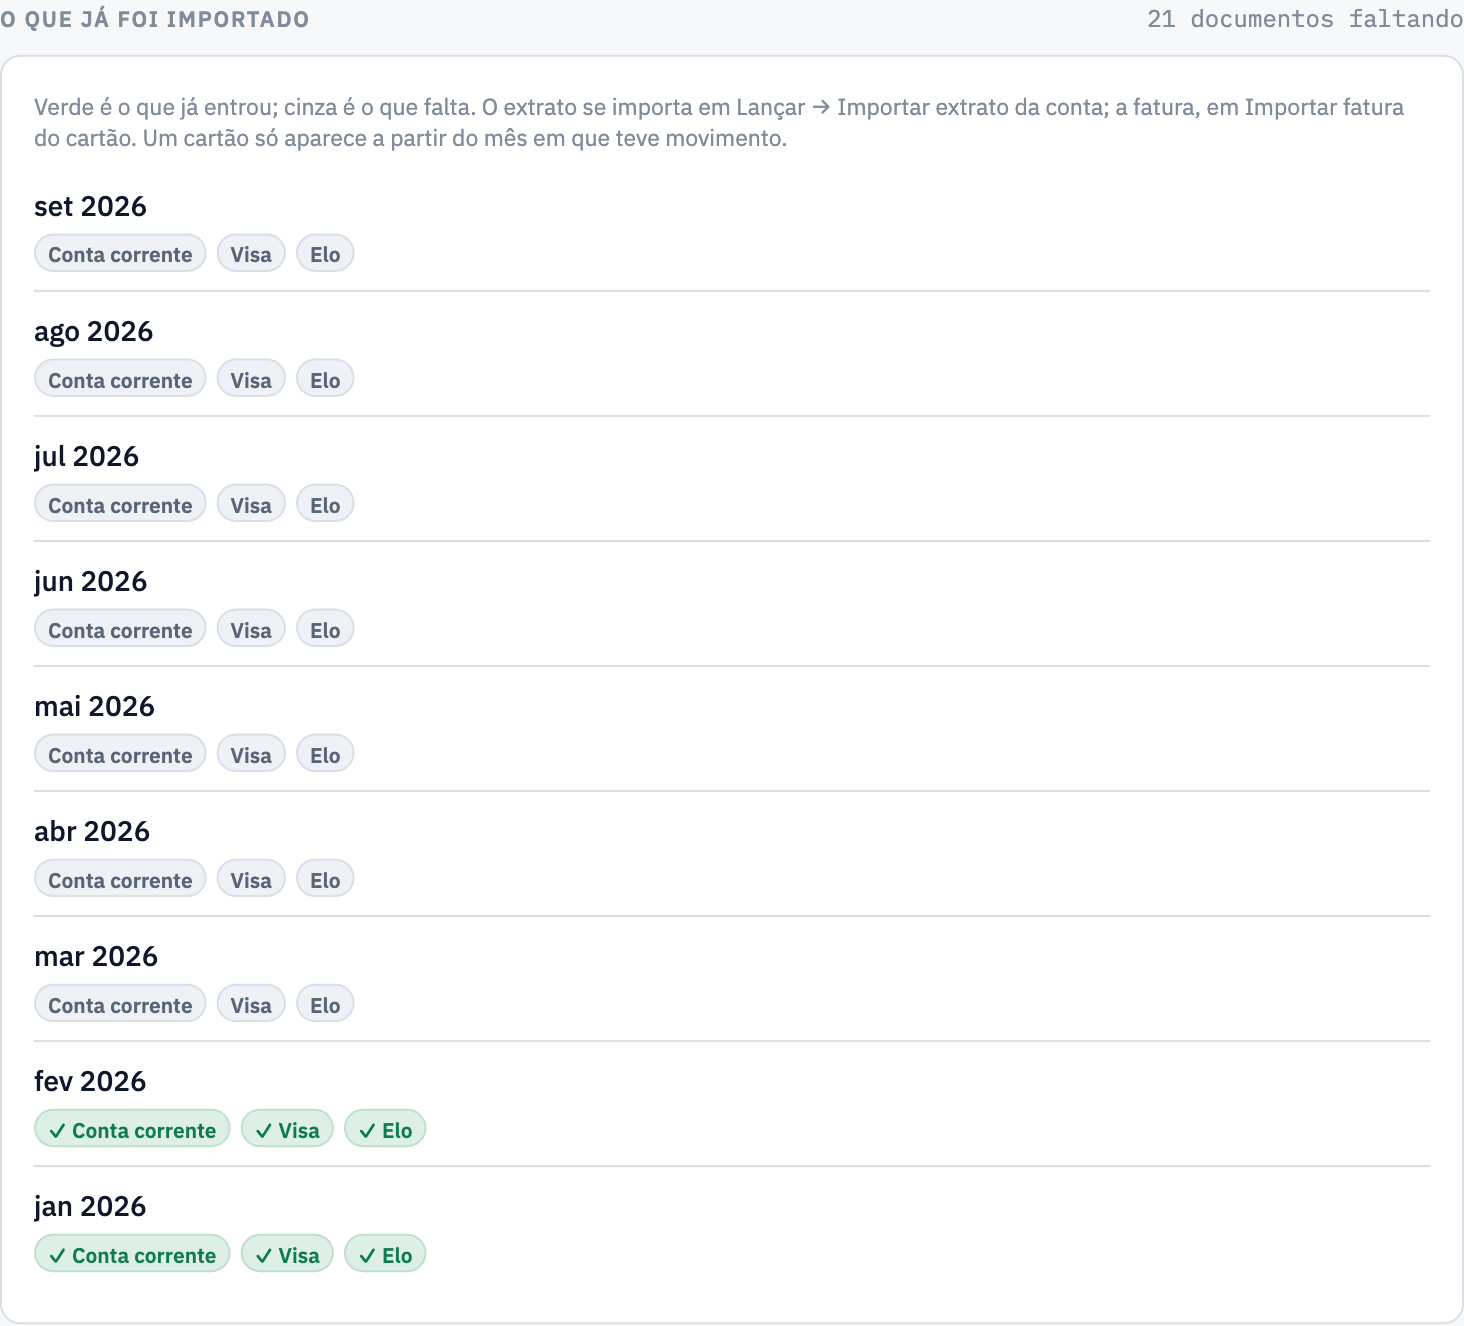
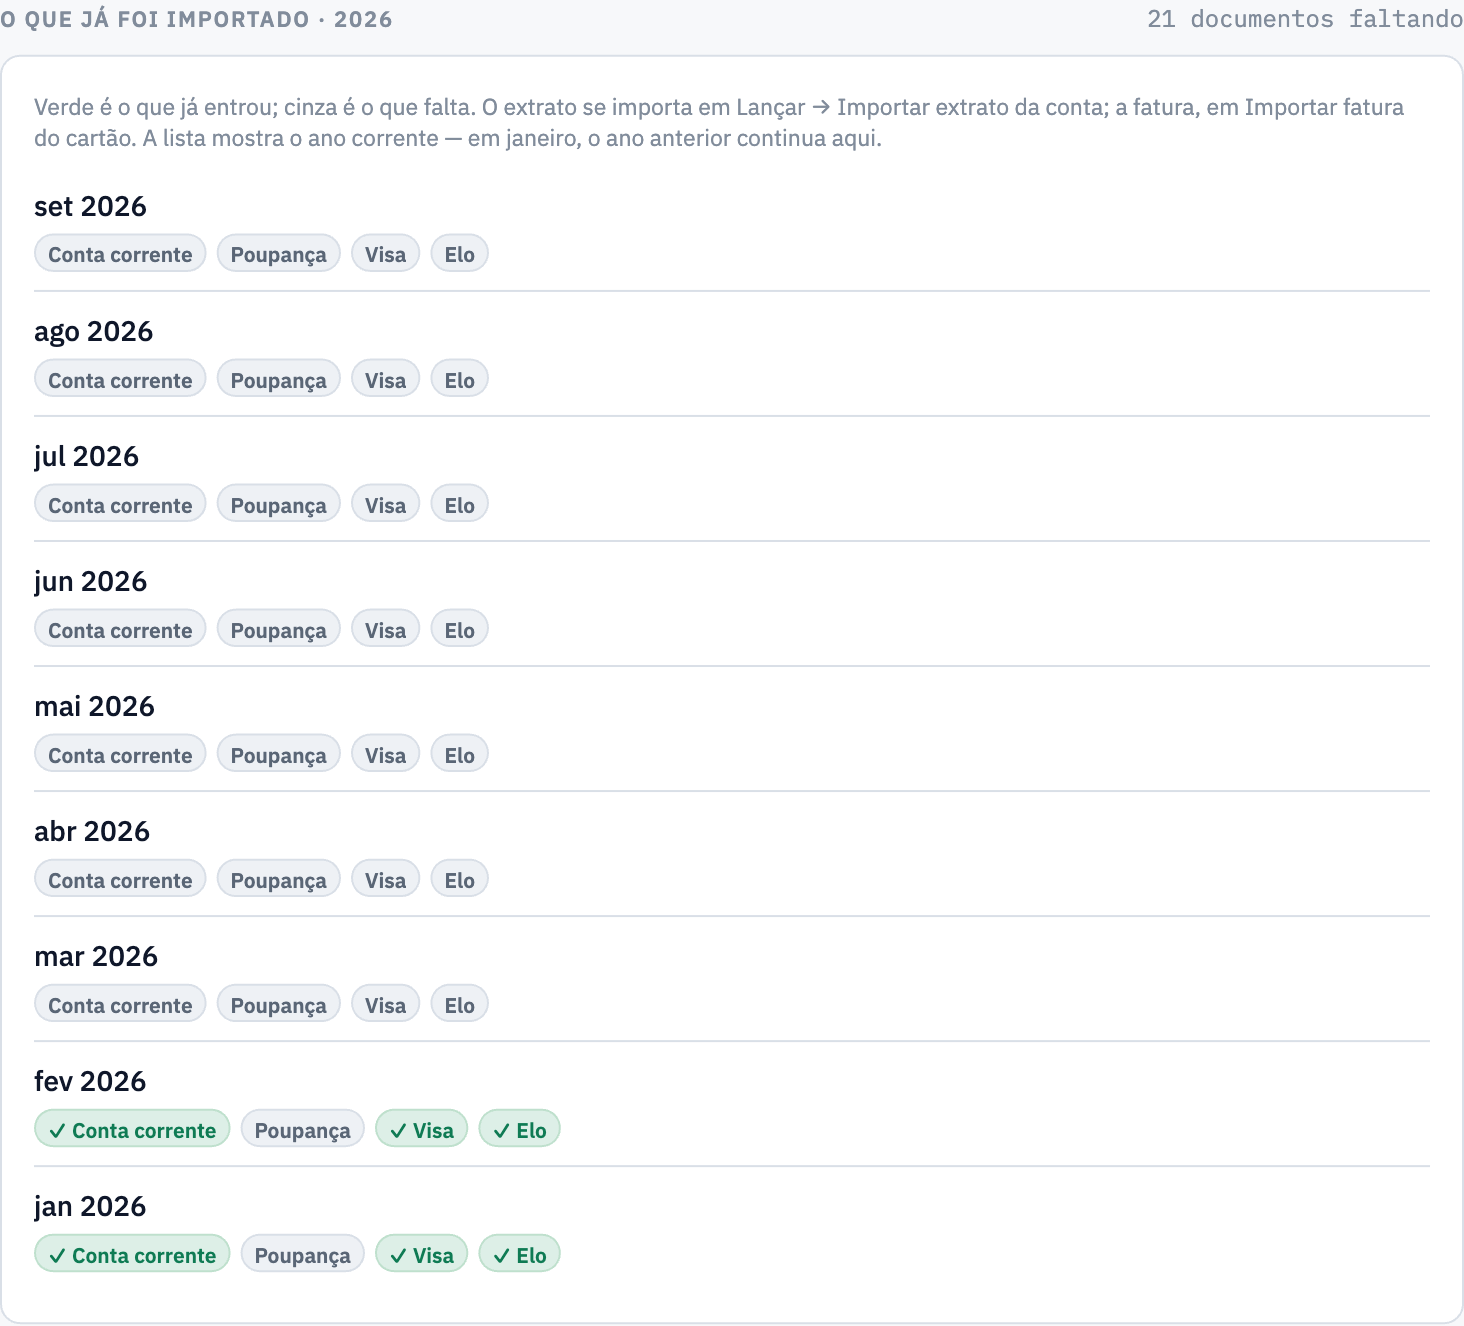
Quadro de importações por ano, com a regra de janeiro
A lista passa a ser do ano corrente. Em janeiro, o ano anterior continua
à vista para não perder o que faltou; de fevereiro em diante fica só o
ano novo, e o que sobrou de anos anteriores vira uma linha de resumo.
Extrato de poupança entra no quadro, mas só conta como pendente depois
que você importa o primeiro.

Ajuda e manual atualizados junto, com tela nova.

diff --git a/index.html b/index.html
@@ -2237,8 +2237,14 @@ function openTransfer(){
       method:"transferencia",cardId:"transf",acct:a,acct2:b,n:1,date:$("#xD").value||todayISO(),time:nowTime(),k:"t"});
     closeSheet(); render(); toast("Transferido"); }; }
 
-/* o que já foi importado, mês a mês: extrato de cada conta e fatura de cada cartão */
-function mesesComMovimento(){
+/* o que já foi importado, mês a mês. A lista é do ano corrente (pedido do dono, 26/09/2026); em janeiro, o ano
+   anterior continua à vista, para não perder de vista o que ficou faltando; de fevereiro em diante, só o ano novo. */
+function mesesDoQuadro(){
+  const cur=ymOf(todayISO()), ano=+cur.slice(0,4), mes=+cur.slice(5,7), out=[];
+  for(let m=mes;m>=1;m--) out.push(ano+"-"+pad(m));
+  if(mes===1) for(let m=12;m>=1;m--) out.push((ano-1)+"-"+pad(m));
+  return out; }
+function mesesComDados(){
   const A=S.cfg.accounts||[], cur=ymOf(todayISO());
   let ini=cur;
   A.forEach(a=>{ if(a.openDate&&ymOf(a.openDate)<ini) ini=ymOf(a.openDate); });
@@ -2246,7 +2252,7 @@ function mesesComMovimento(){
   Object.keys(S.cfg.faturasLidas||{}).concat(Object.keys(S.cfg.extratosLidos||{}))
     .forEach(k=>{ const m=k.split("|")[1]; if(m&&m<ini) ini=m; });
   const out=[]; let ym=cur;
-  while(ym>=ini&&out.length<36){ out.push(ym); ym=ymShift(ym,-1); }
+  while(ym>=ini&&out.length<60){ out.push(ym); ym=ymShift(ym,-1); }
   return out; }
 function htmlImportacoes(){
   const ex=S.cfg.extratosLidos||{}, fa=S.cfg.faturasLidas||{}, cur=ymOf(todayISO());
@@ -2258,36 +2264,45 @@ function htmlImportacoes(){
   if(!contas.length) contas=A.filter(a=>a.type!=="carteira"&&a.type!=="invest");
   const cartoes=creditCards();
   if(!contas.length&&!cartoes.length) return "";
-  const meses=mesesComMovimento();
-  /* de quando cobrar cada documento: da abertura da conta, ou do primeiro mês em que o cartão teve movimento */
+  const todos=mesesComDados(), meses=mesesDoQuadro();
+  /* de quando cobrar cada documento: da abertura da conta (ou do primeiro mês com movimento) e, no cartão,
+     do primeiro mês em que ele teve fatura */
   const desdeConta={}, desdeCartao={};
   contas.forEach(a=>{ let d=a.openDate?ymOf(a.openDate):"";
     Object.keys(ex).forEach(k=>{ const [id,m]=k.split("|"); if(id===a.id&&(!d||m<d)) d=m; });
-    /* mês em que a conta já tem movimento vale mesmo antes da data de início */
-    meses.forEach(m=>{ if((!d||m<d)&&movsConta(a.id,m).length) d=m; });
-    desdeConta[a.id]=d||meses[meses.length-1]; });
+    todos.forEach(m=>{ if((!d||m<d)&&movsConta(a.id,m).length) d=m; });
+    desdeConta[a.id]=d||todos[todos.length-1]||cur; });
   cartoes.forEach(c=>{ let d="";
     Object.keys(fa).forEach(k=>{ const [id,m]=k.split("|"); if(id===c.id&&(!d||m<d)) d=m; });
-    meses.forEach(m=>{ if(cardInvoice(c.id,m).total&&(!d||m<d)) d=m; });
+    todos.forEach(m=>{ if(cardInvoice(c.id,m).total&&(!d||m<d)) d=m; });
     desdeCartao[c.id]=d; });
-  let faltam=0;
-  const chip=(lido,nome,quando,cobra)=>{ if(!lido&&cobra) faltam++;
-    return '<span class="chip '+(lido?"ok":"")+'" title="'+(lido?"importado em "+diaMesAno(quando):"ainda não importado")+'">'+
-      (lido?"✓ ":"")+esc(nome)+'</span>'; };
-  const linhas=meses.map(ym=>{
-    const chips=[];
+  const docsDoMes=ym=>{ const out=[];
     contas.forEach(a=>{ if(desdeConta[a.id]&&ym<desdeConta[a.id]) return;
-      chips.push(chip(!!ex[a.id+"|"+ym],a.n,ex[a.id+"|"+ym],ym<=cur)); });
+      /* só cobra extrato de conta corrente ou de conta que você já importou alguma vez: poupança fica no quadro,
+         mas não entra na conta do que falta enquanto você não importar a primeira */
+      const cobra=ym<=cur&&(a.type==="corrente"||temImport(ex,a.id));
+      out.push({lido:!!ex[a.id+"|"+ym], nome:a.n, quando:ex[a.id+"|"+ym], cobra}); });
     cartoes.forEach(c=>{ const d=desdeCartao[c.id]; if(!d||ym<d) return;
-      chips.push(chip(!!fa[c.id+"|"+ym],c.n,fa[c.id+"|"+ym],ym<=cur)); });
-    if(!chips.length) return "";
+      out.push({lido:!!fa[c.id+"|"+ym], nome:c.n, quando:fa[c.id+"|"+ym], cobra:ym<=cur}); });
+    return out; };
+  let faltam=0;
+  const linhas=meses.map(ym=>{ const L=docsDoMes(ym); if(!L.length) return "";
+    const chips=L.map(x=>{ if(!x.lido&&x.cobra) faltam++;
+      return '<span class="chip '+(x.lido?"ok":"")+'" title="'+(x.lido?"importado em "+diaMesAno(x.quando):"ainda não importado")+'">'+
+        (x.lido?"✓ ":"")+esc(x.nome)+'</span>'; }).join("");
     return '<div class="linkrow wrap"><div class="m"><div class="t">'+esc(ymLabel(ym))+'</div>'+
-      '<div class="s" style="display:flex;gap:5px;flex-wrap:wrap;margin-top:4px">'+chips.join("")+'</div></div></div>'; }).join("");
-  return '<div class="sec"><div class="sec-h"><h2 class="sec-t">O que já foi importado</h2>'+
+      '<div class="s" style="display:flex;gap:5px;flex-wrap:wrap;margin-top:4px">'+chips+'</div></div></div>'; }).join("");
+  /* o que ficou faltando em anos que saíram da lista */
+  let antes=0;
+  todos.filter(m=>meses.indexOf(m)<0).forEach(m=>docsDoMes(m).forEach(x=>{ if(!x.lido&&x.cobra) antes++; }));
+  const ano=cur.slice(0,4), janeiro=+cur.slice(5,7)===1;
+  return '<div class="sec"><div class="sec-h"><h2 class="sec-t">O que já foi importado · '+ano+(janeiro?" e "+(+ano-1):"")+'</h2>'+
     '<span class="day-t">'+(faltam?faltam+(faltam>1?" documentos faltando":" documento faltando"):"tudo em dia")+'</span></div>'+
     '<div class="card pad">'+
-    '<div class="say-hint" style="margin-bottom:8px">Verde é o que já entrou; cinza é o que falta. O extrato se importa em Lançar → Importar extrato da conta; a fatura, em Importar fatura do cartão. Um cartão só aparece a partir do mês em que teve movimento.</div>'+
-    linhas+'</div></div>'; }
+    '<div class="say-hint" style="margin-bottom:8px">Verde é o que já entrou; cinza é o que falta. O extrato se importa em Lançar → Importar extrato da conta; a fatura, em Importar fatura do cartão. A lista mostra o ano corrente — em janeiro, o ano anterior continua aqui.</div>'+
+    linhas+
+    (antes?'<div class="say-hint" style="margin-top:10px">Ainda faltam '+antes+(antes>1?" documentos de anos anteriores":" documento de anos anteriores")+'. Eles saíram da lista, mas continuam podendo ser importados: basta escolher o arquivo em Lançar.</div>':"")+
+    '</div></div>'; }
 
 /* =================== ajuda =================== */
 /* o app não tem IA embutida (não há servidor nem chave): a ajuda é busca no próprio conteúdo, e para
@@ -2325,7 +2340,7 @@ const AJUDA=[
  {g:"Importar",t:"Importo extrato e fatura: o gasto conta duas vezes?",
   c:"Não. As compras vêm da fatura e não tiram dinheiro da conta; o pagamento da fatura vem do extrato, sai da conta e não conta como gasto. Pode importar todos os extratos primeiro e as faturas depois.",a:"carregar"},
  {g:"Importar",t:"Como sei quais extratos e faturas já importei?",
-  c:"Em Ajustes, no quadro O que já foi importado: cada mês mostra o extrato de cada conta e a fatura de cada cartão — verde é o que já entrou, cinza é o que falta. No alto aparece quantos documentos ainda faltam.",a:"carregar"},
+  c:"Em Ajustes, no quadro O que já foi importado: cada mês mostra o extrato de cada conta e a fatura de cada cartão — verde é o que já entrou, cinza é o que falta. No alto aparece quantos documentos ainda faltam. A lista é do ano corrente; em janeiro, o ano anterior continua à vista, e de fevereiro em diante fica só o ano novo — o que ficou faltando de anos anteriores aparece resumido no rodapé e pode ser importado a qualquer momento.",a:"carregar"},
  {g:"Importar",t:"O PDF do meu banco não foi lido",
   c:"O app mostra uma amostra sem os seus dados (números viram 9, nomes viram x). Copie e mande na conversa com o Claude para ele ajustar o leitor. Nunca mande o documento original.",a:"problemas"},
  {g:"Importar",t:"Escolhi o leitor errado (extrato no lugar da fatura)",

diff --git a/manual.html b/manual.html
@@ -495,6 +495,8 @@ td.valor{font-family:var(--f-m);text-align:right;white-space:nowrap}
   <figcaption>Verde é o que já entrou; cinza é o que falta. No alto, quantos documentos ainda faltam. Entram as contas de banco — corrente e poupança; a carteira e a conta da aplicação automática ficam de fora, porque não têm extrato próprio. Um cartão só aparece a partir do mês em que teve movimento.</figcaption>
 </figure>
 
+<p>A lista é do <b>ano corrente</b>. Em janeiro, o ano anterior continua à vista, para você não perder de vista o que ficou faltando; de fevereiro em diante, fica só o ano novo, e o que sobrou de anos anteriores aparece resumido no rodapé do quadro — e pode ser importado quando quiser.</p>
+
 <div class="nota">
   <b>Não desconta duas vezes</b>
   As compras que vêm da fatura não tiram dinheiro da conta, e o pagamento que vem do extrato não conta como gasto. É por isso que a ordem não estraga nada.

diff --git a/sw.js b/sw.js
@@ -1,6 +1,6 @@
 /* Caderneta — service worker: guarda o app no aparelho para abrir sem internet.
    Mude VERSAO a cada publicação para os aparelhos pegarem a versão nova. */
-const VERSAO = "caderneta-v41";
+const VERSAO = "caderneta-v42";
 const FONTES = "caderneta-fontes";
 const LIBS = "caderneta-libs-2";
 const APP = ["./", "./index.html", "./manifest.webmanifest", "./config.js",

diff --git a/CLAUDE.md b/CLAUDE.md
@@ -37,7 +37,7 @@ Leia este arquivo inteiro antes de mudar qualquer coisa. Ao mudar arquitetura, f
    - Dívidas: `TIPOS_DIVIDA`, `saldoPrice`, `quitar`, `normDivida`, `vencDivida`, `estadoDivida`, `consignadoNoMes`, `simulacao`, `openDivida`. Gastos que se repetem: `recorrentes`, `tornarFixo`.
    - Extrato por conta e fatura do cartão, na aba Contas: `movsConta`, `linhaExt`, `htmlExtrato`, `bindExtrato` (a seleção fica em `S.ext`; `card:<id>` é cartão). Fatura: `faturaDe`, `comprasDaFatura`, `cardInvoice`.
    - Importar, acertar e repetidos: `saldoDoDoc` + `openAcerto` (acerto pelo saldo impresso no extrato), `dupHTML` (a pergunta na conferência) e `repetidosDe`/`procurarRepetidos`/`openRepetido` (repetidos já lançados).
-   - **O que já foi importado** (pedido do dono, 26/09/2026): quadro em Ajustes (`htmlImportacoes` + `mesesComMovimento`), mês a mês, com o extrato de cada conta (`cfg.extratosLidos`, gravado em `saveDrafts` quando o mês tem 3+ linhas daquela conta) e a fatura de cada cartão (`cfg.faturasLidas`). Só cobra o que faz sentido: contas de banco — corrente, poupança ou qualquer uma que já teve extrato importado; a carteira e a conta da aplicação automática ficam de fora — a partir do `openDate`, e cartão a partir do primeiro mês com movimento.
+   - **O que já foi importado** (pedido do dono, 26/09/2026): quadro em Ajustes (`htmlImportacoes` + `mesesComMovimento`), mês a mês, com o extrato de cada conta (`cfg.extratosLidos`, gravado em `saveDrafts` quando o mês tem 3+ linhas daquela conta) e a fatura de cada cartão (`cfg.faturasLidas`). A lista é do ano corrente (`mesesDoQuadro`): em janeiro o ano anterior continua junto, de fevereiro em diante só o ano novo, e o que ficou para trás vira uma linha de resumo. Só cobra o que faz sentido: contas de banco — corrente, poupança ou qualquer uma que já teve extrato importado; a carteira e a conta da aplicação automática ficam de fora — a partir do `openDate`, e cartão a partir do primeiro mês com movimento.
    - Fatura **prevista**: enquanto a fatura daquele mês não foi importada (`cfg.faturasLidas["<cartão>|<AAAA-MM>"]`), o valor é só a previsão pelas compras e parcelas que o app conhece — ela aparece como *prevista*, nunca como *atrasada*, e não entra na conta de "passaram do vencimento" no Painel.
    - Ajustes → Dados mostra a **versão instalada** (`mostrarVersao` lê o nome do cache `caderneta-vNN`) e tem *Procurar atualização*: serve para saber se o aparelho já está na versão nova.
    - Contas a pagar do mês: `contasDoMes` junta gastos fixos (pagos = têm lançamento com `fix`), parcelas de dívida, consignado em folha (só informativo) e a fatura de cada cartão (vencimento no mês seguinte quando `due < closing`); `linhaConta`, `htmlContas` (seção da aba Mês), `htmlProximas` (bloco do Painel, dez dias à frente), `lancarFixoUm`, `bindContas`.
@@ -208,7 +208,7 @@ Primeira publicação num computador novo: o dono autoriza no navegador (Git Cre
 
 ## Situação e próximos passos
 
-- **Publicado:** `caderneta-v41` (26/09/2026). O que existe está descrito acima; os commits contam a ordem.
+- **Publicado:** `caderneta-v42` (26/09/2026). O que existe está descrito acima; os commits contam a ordem.
 - **O que o dono está fazendo:** carregando os extratos da conta corrente e as faturas dos cartões (Visa, Mastercard, Elo) de janeiro a setembro de 2026, todos em PDF, no MacBook Air, depois de usar *Recomeçar do zero*. O passo a passo está no README, em *Importar meses anteriores*.
 - **Documentos reais (15/09/2026):** o dono mandou, por iniciativa própria, o extrato da conta corrente do BB de jan/2026 e uma fatura Ourocard Mastercard. Até a v14 o extrato vinha com descrições erradas (lote e documento no lugar do nome) e o Rende Fácil contado como gasto e entrada; a fatura lia taxas de juros como compras. Os formatos estão descritos acima e foram conferidos com os dois PDFs, que **não** estão no repositório. A fatura recebida só tinha anuidade e desconto; compras parceladas no formato do BB foram testadas com linhas simuladas. Se outro documento falhar, peça a *amostra sem dados*.
 - **Consignados:** ele tem dois — um pagando a 4ª de 12 em setembro de 2026, outro com a 1ª parcela em 01/10/2026. Depois do Recomeçar, precisam ser cadastrados de novo, com a data real do empréstimo e 0 já descontadas, antes de importar janeiro.
